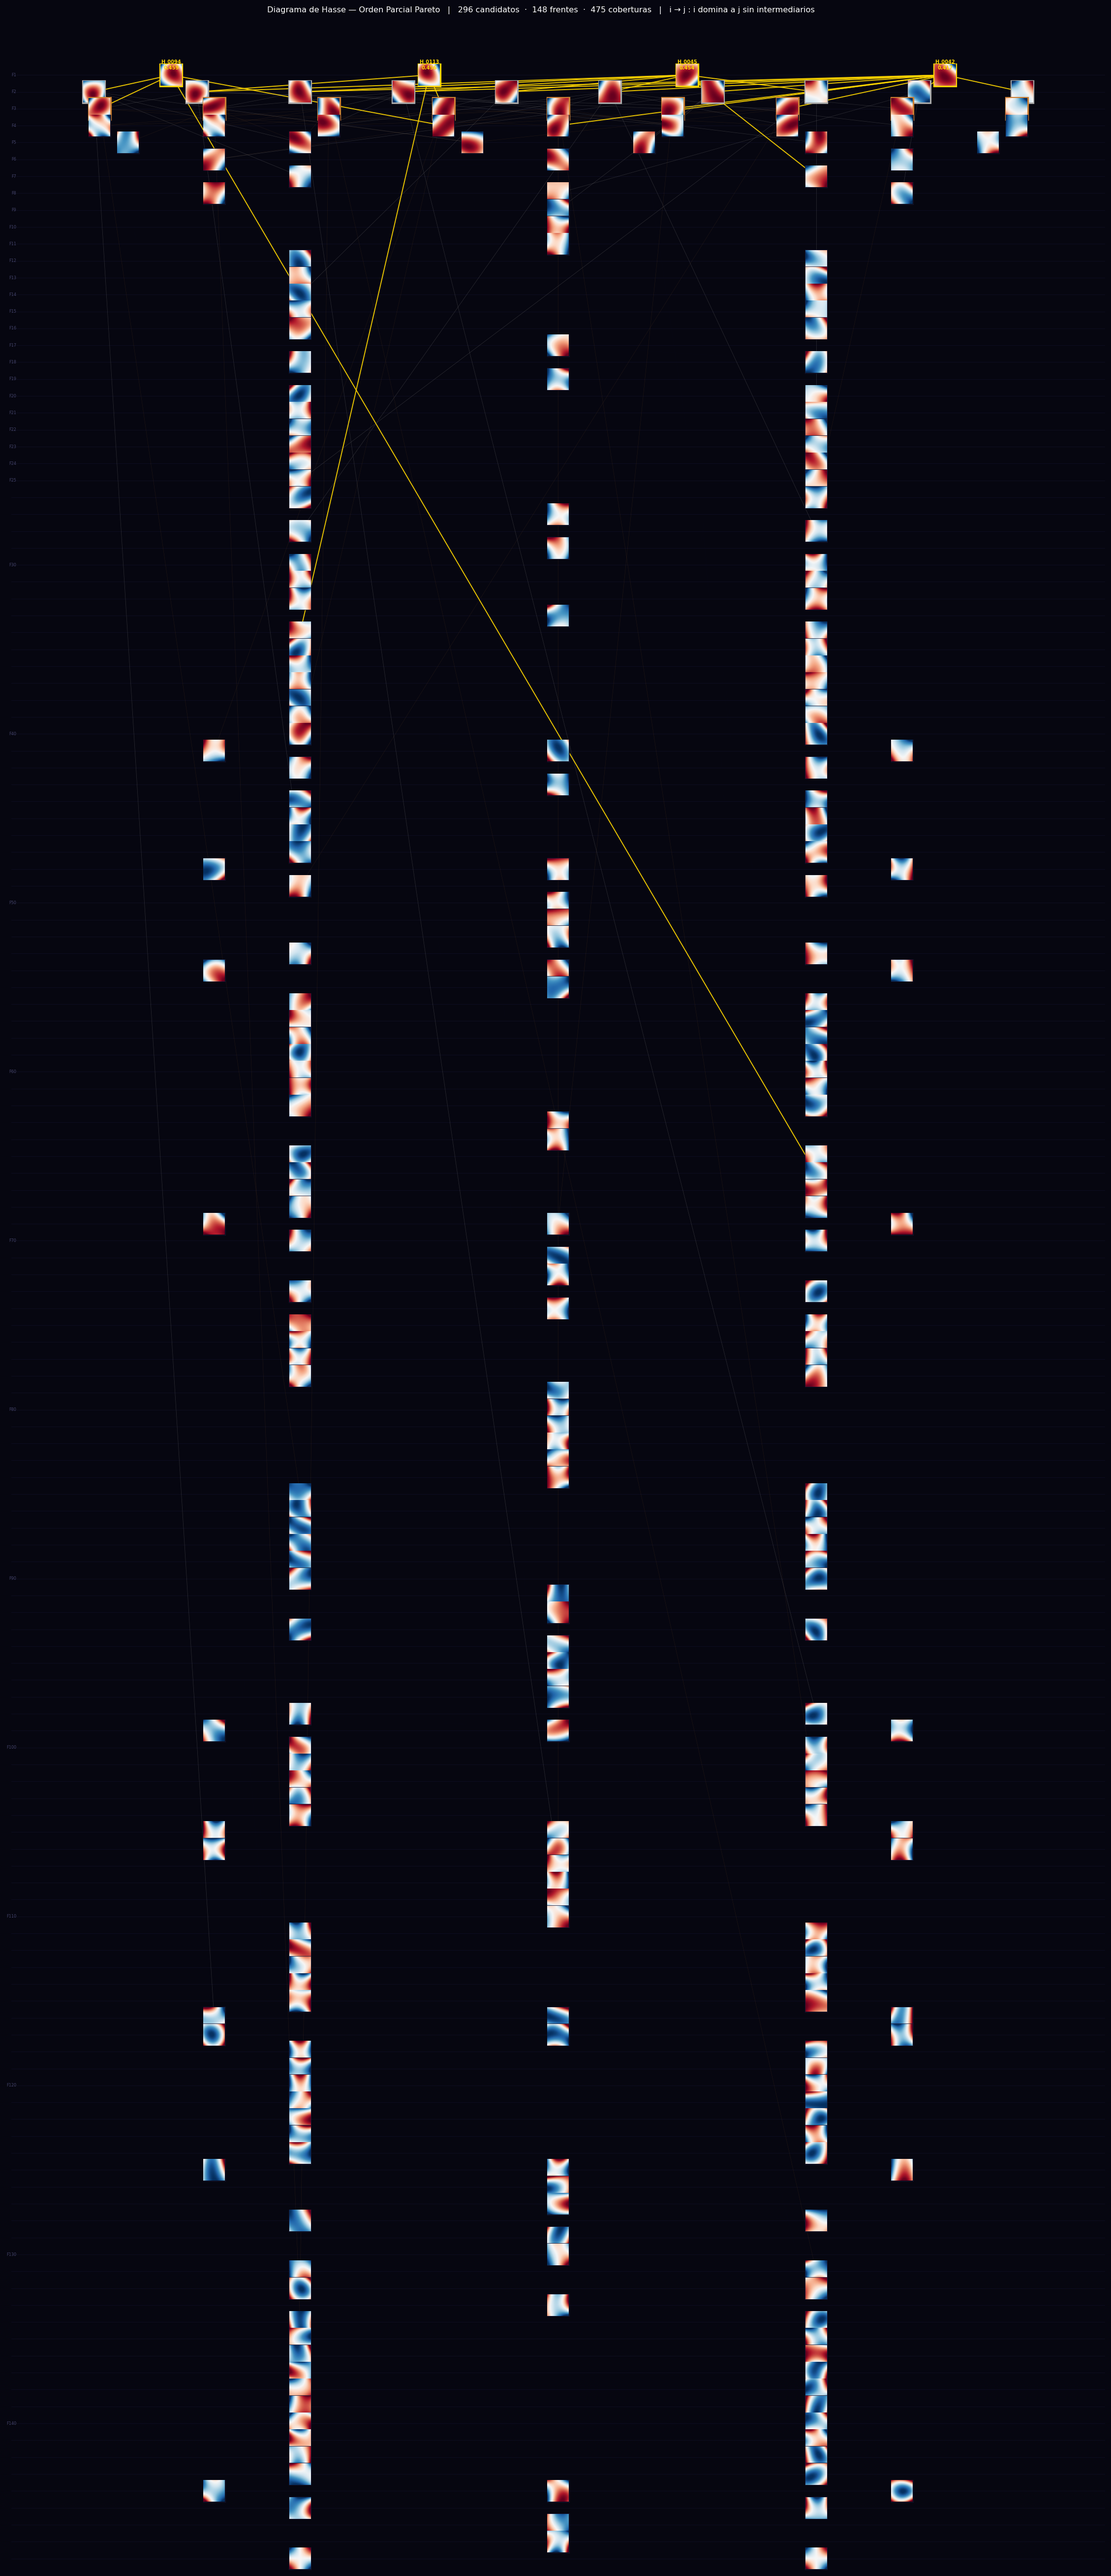
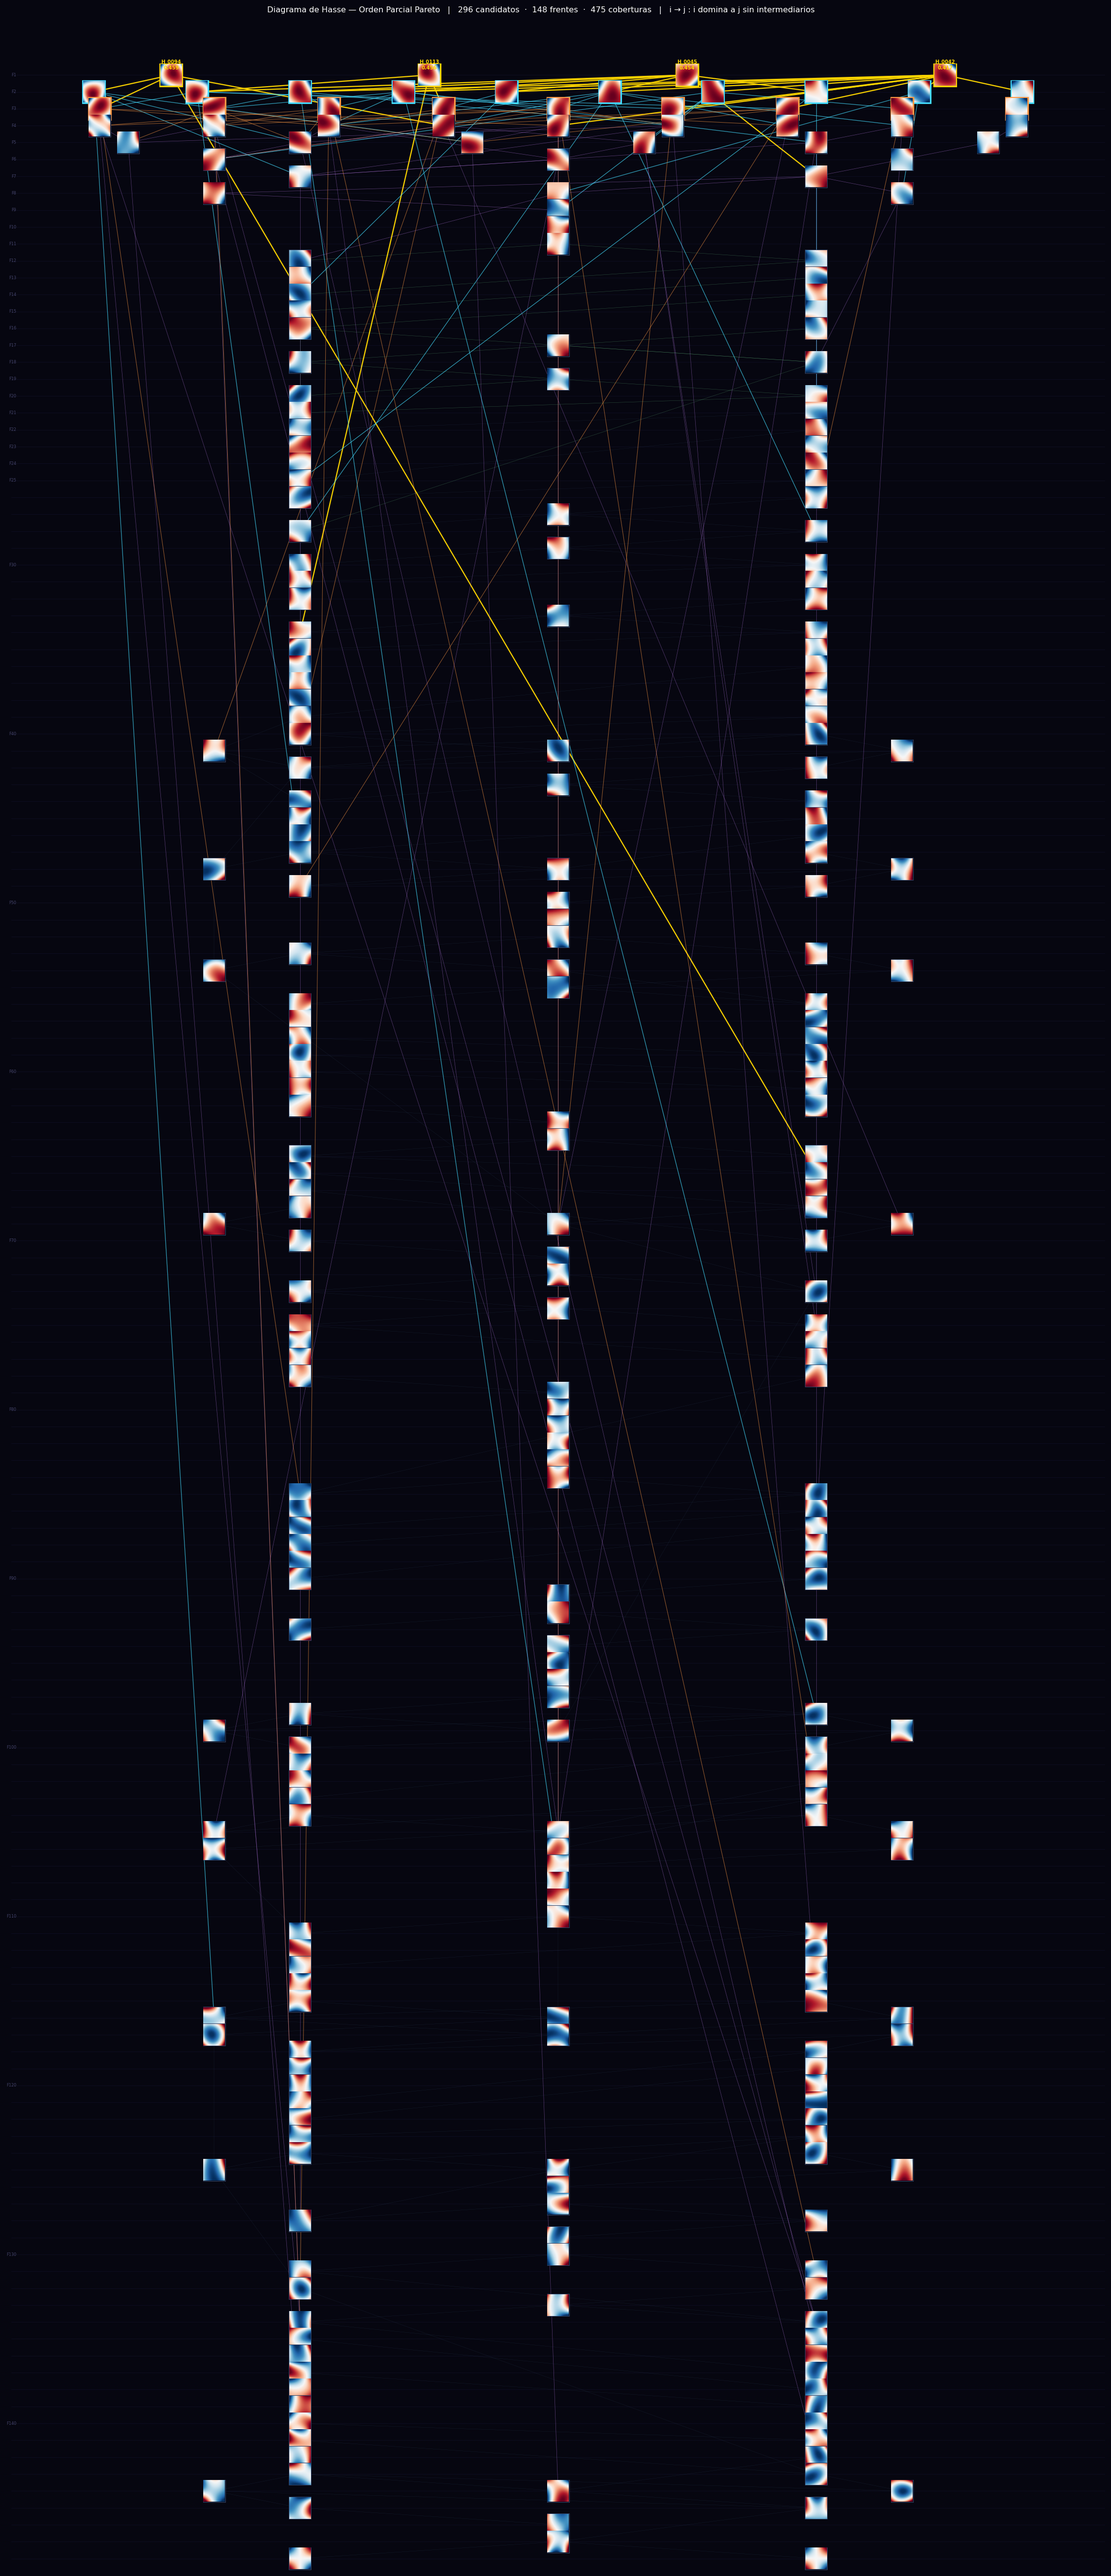
Mejorar colores de aristas en diagrama de Hasse para contrastar con fondo negro
Jerarquia cromatica por frente Pareto:
  F1       : oro     (#FFD700)  alpha=0.95  lw=1.3
  F2       : cian    (#44DDFF)  alpha=0.70  lw=0.70
  F3       : naranja (#FF9944)  alpha=0.60  lw=0.55
  F4-F8    : violeta (#CC88FF)  alpha=0.45  lw=0.38
  F9-F20   : menta   (#88FFAA)  alpha=0.32  lw=0.28
  F21+     : azul acero (#6699CC) alpha=0.22 lw=0.18

Bordes de nodos actualizados a la misma paleta (blw=0.6 para frentes tardios).

Changed region(s): [[0.093, 0.0312, 0.744, 0.187], [0.279, 0.187, 0.31, 0.2181]]

diff --git a/experiments/06_hamiltonian_families/pipeline.py b/experiments/06_hamiltonian_families/pipeline.py
@@ -984,17 +984,25 @@ def _generate_hasse_diagram(catalog: Catalog, cfg: dict, id_to_rank: dict):
             ax.text(-0.025, -(r - 1), f"F{r}",
                     color="#44446A", fontsize=4.5, ha="right", va="center")
 
-    # Aristas
-    border_col = {1: "#FFD700", 2: "#AAAAAA", 3: "#CD7F32"}
-    edge_params = {
-        1: dict(color="#FFD700", alpha=0.90, lw=1.1),
-        2: dict(color="#888888", alpha=0.30, lw=0.40),
-        3: dict(color="#996633", alpha=0.20, lw=0.30),
-    }
-    default_ep = dict(color="#22224A", alpha=0.09, lw=0.15)
+    # Aristas — colores que resaltan sobre fondo negro
+    border_col = {1: "#FFD700", 2: "#44DDFF", 3: "#FF9944"}
+
+    def _edge_style(rank: int) -> dict:
+        if rank == 1:
+            return dict(color="#FFD700", alpha=0.95, lw=1.3)   # oro
+        if rank == 2:
+            return dict(color="#44DDFF", alpha=0.70, lw=0.70)  # cian brillante
+        if rank == 3:
+            return dict(color="#FF9944", alpha=0.60, lw=0.55)  # naranja
+        if rank <= 8:
+            return dict(color="#CC88FF", alpha=0.45, lw=0.38)  # violeta
+        if rank <= 20:
+            return dict(color="#88FFAA", alpha=0.32, lw=0.28)  # verde menta
+        return     dict(color="#6699CC", alpha=0.22, lw=0.18)  # azul acero
+
     for ii, jj in zip(I_e, J_e):
-        ri  = int(rnk[ii])
-        ep  = edge_params.get(ri, default_ep)
+        ri = int(rnk[ii])
+        ep = _edge_style(ri)
         ax.plot([pos[ii,0], pos[jj,0]], [pos[ii,1], pos[jj,1]],
                 zorder=1, solid_capstyle="round", **ep)
 
@@ -1003,8 +1011,8 @@ def _generate_hasse_diagram(catalog: Catalog, cfg: dict, id_to_rank: dict):
     for idx, (e, img) in enumerate(zip(entries, thumbs)):
         cx, cy = pos[idx]
         rank   = int(rnk[idx])
-        bc     = border_col.get(rank, "#1A1A3A")
-        blw    = 1.8 if rank <= 3 else 0.4
+        bc     = border_col.get(rank, "#334466")
+        blw    = 1.8 if rank <= 3 else 0.6
 
         oi = OffsetImage(img, zoom=ZOOM)
         oi.image.axes = ax
